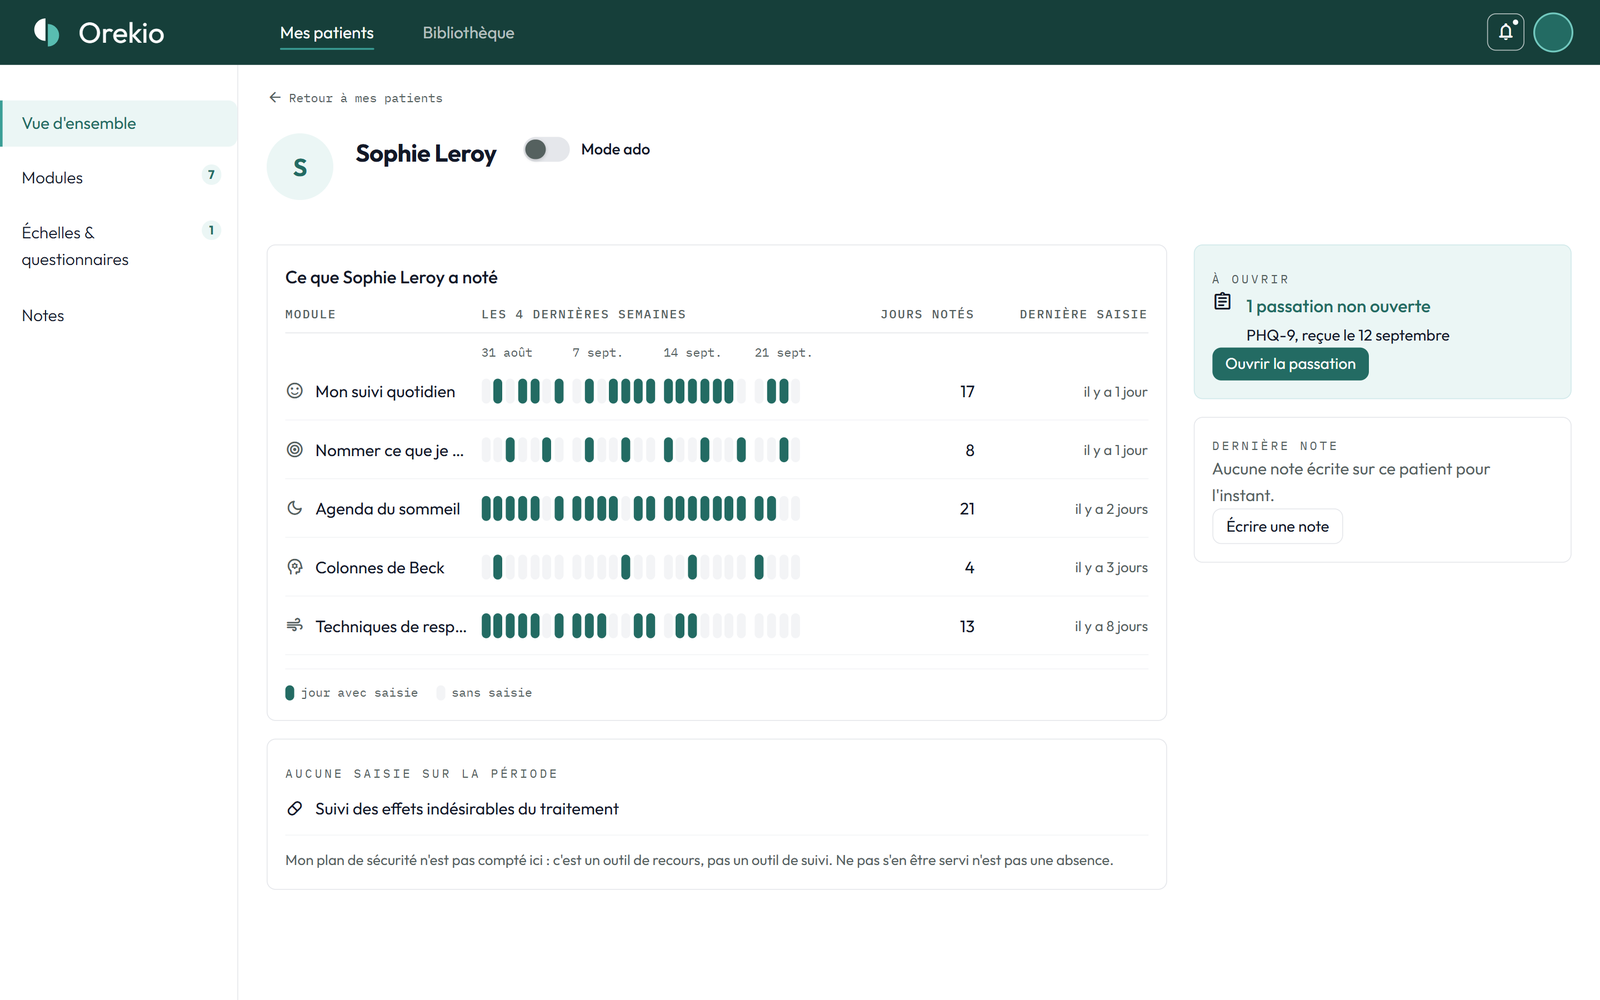
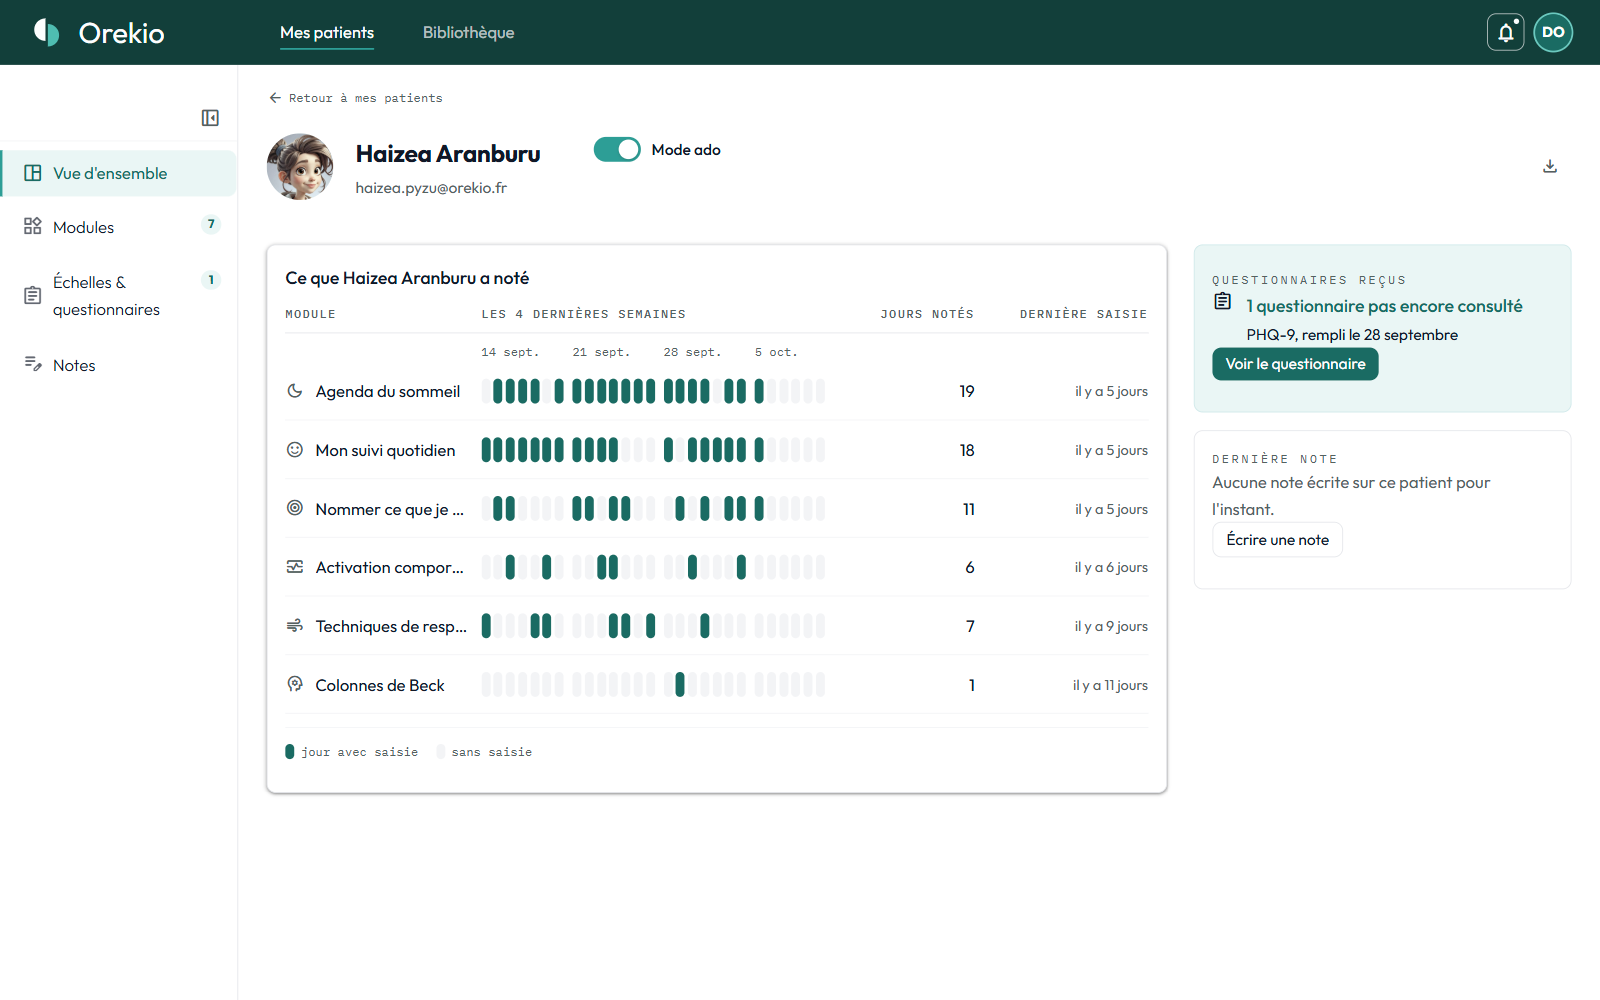
Captures : vue d'ensemble praticien, encart « Questionnaires reçus » (OrekioOrg/Orekio#1694)

diff --git a/src/i18n/dictionaries/fr.ts b/src/i18n/dictionaries/fr.ts
@@ -264,7 +264,7 @@ export const fr = {
           height: 1000,
           eyebrow: "Avant la consultation",
           title: "Ce que le patient a noté, d'un coup d'œil.",
-          text: "Les modules utilisés sur les quatre dernières semaines, jour par jour, et ce qui reste à ouvrir.",
+          text: "Les modules utilisés sur les quatre dernières semaines, jour par jour, et les questionnaires reçus pas encore consultés.",
           alt: "La vue d'ensemble d'une patiente fictive : ses modules et les jours où elle a noté quelque chose.",
         },
         {

diff --git a/src/i18n/dictionaries/en.ts b/src/i18n/dictionaries/en.ts
@@ -253,7 +253,7 @@ export const en: Dictionary = {
           height: 1000,
           eyebrow: "Before the consultation",
           title: "What the patient has entered, at a glance.",
-          text: "The modules used over the last four weeks, day by day, and what is left to open.",
+          text: "The modules used over the last four weeks, day by day, and the questionnaires received but not yet viewed.",
           alt: "A fictional patient's overview: her modules and the days she entered something.",
         },
         {
